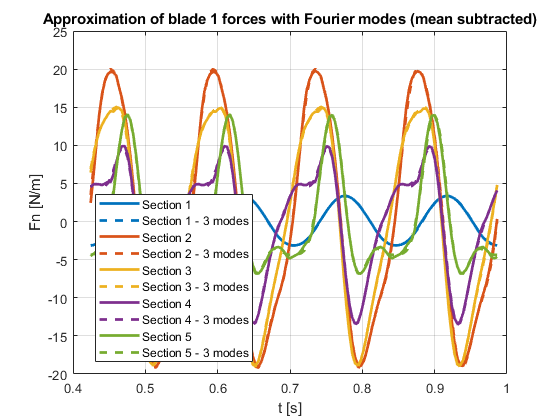
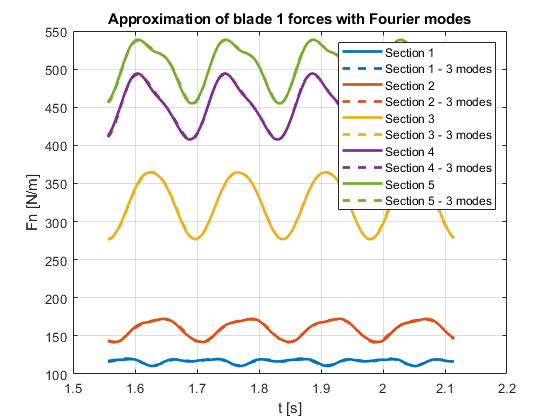
SA of NewMexico output wrt. yaw parameters
- output is a vector QoI with the Fourier coefficients
- added FFT to the NewMexico readoutput function to transform simulation data to Fourier domain

diff --git a/sensitivity_analysis/cases/NewMexico_sensitivity/NewMexico_readoutput.m b/sensitivity_analysis/cases/NewMexico_sensitivity/NewMexico_readoutput.m
@@ -48,7 +48,7 @@ switch P.FixedParameters.QoI
         
         % Locations of experimental data
         % These values are made available from NewMexico: 
-        r_exp = P.FixedParameters.r_exp; %2.25*[0.25 0.35 0.6 0.82 0.92]; % Measurement radial stations in percentage of blade length
+        r_exp = P.FixedParameters.r_exp;
         
         switch P.FixedParameters.QoI_type
 
@@ -62,13 +62,13 @@ switch P.FixedParameters.QoI
             case 'full'
                 
                 % number of revolutions to consider (counting backward)
-                n_rev = 4;
+                n_rev     = P.FixedParameters.n_rev;
                 % number of Fourier coefficients to keep (including mean)
-                % note: we get (n_keep-1)*2 + 1 coefficients
-                n_keep = 2;
+                % note: we get (n_fourier-1)*2 + 1 coefficients
+                n_fourier = P.FixedParameters.n_fourier;
                 % radial indices to consider:
-                r_index = 1:5;
-                
+                r_index   = P.FixedParameters.r_index;
+                                               
                 % Use full (azimuth dependent) solution
                 % select a couple of revolutions by looking at where azimuth is smaller
                 % than a threshold value; the threshold value is taken as the minimum of the difference
@@ -82,22 +82,26 @@ switch P.FixedParameters.QoI
                 % select force, azimuth and time based on this index
                 Fn_last_rev   = Fn(ind_last_rev,:);
                 azi_last_rev  = azi_sim(ind_last_rev);
+%               dazi = mean(diff(azi_last_rev)); % in degrees
+                % get the time step from the simulation data, it should
+                % be constant
                 t_last_rev    = t_sim(ind_last_rev);
-
-
+                dt   = mean(diff(t_last_rev)); % in seconds
+                % number of data points
+                n    = length(azi_last_rev); 
+                
+                % Interpolated Fn to the right r-positions using spline               
+                Fn_int   = spline(r_sim,Fn_last_rev,r_exp);               
+                
                 Y = [];
                 for k=1:length(r_index)
 
-                    n    = length(azi_last_rev); 
-%                     dazi = mean(diff(azi_last_rev)); % in degrees
-                    % get the time step from the simulation data, it should
-                    % be constant
-                    dt   = mean(diff(t_last_rev)); % in seconds
-                    Fn   = Fn_last_rev(:,r_index(k));
+
+                    Fn_k = Fn_int(:,r_index(k));
                     % do the fourier transform
-                    Fhat = fft(Fn,n);
+                    Fhat = fft(Fn_k,n)/n; % include scaling with 1/n to get physical results for coefficients
                     % get the power spectral density
-                    PSD  = Fhat.*conj(Fhat)/(n^2);
+                    PSD  = Fhat.*conj(Fhat);
 
                     % first half of frequencies contains all information, because the signal is
                     % real, so c_k = c_{-k}
@@ -117,15 +121,17 @@ switch P.FixedParameters.QoI
                     % note that the indices that are skipped correspond to
                     % the complex conjugate, so they don't need to be
                     % stored
-                    ind_select = 2:2:2*(n_keep-1);
+                    ind_select = 2:2:2*(n_fourier-1);
                     
                     % add mean separately
-                    Fhat_mean = Fhat(ind(1));
+                    Fhat_mean = abs(Fhat(ind(1)));
                     Fhat_new  = Fhat(ind(ind_select));
 
                     % save the complex coefficients in terms of amplitude
-                    % and phase angle
-                    Y = horzcat(Y,[Fhat_mean abs(Fhat_new)' angle(Fhat_new)']);
+                    % and phase angleei
+                    % since we only store the positive frequencies, we need
+                    % to multiply by 2 for the physical amplitudes
+                    Y = horzcat(Y,[Fhat_mean 2*abs(Fhat_new)' angle(Fhat_new)']);
                     
                 end
         

diff --git a/sensitivity_analysis/Other/testFourierSimulationData.m b/sensitivity_analysis/Other/testFourierSimulationData.m
@@ -2,7 +2,7 @@
 clearvars
 close all
 
-%% load some data
+%% load some simulation data
 root_folder = pwd;
 filename = fullfile('AEROmodule','NewMexico_calibrate','current','output','B1n_BEM.txt');
 
@@ -46,7 +46,7 @@ t_last_rev    = t_sim(ind_last_rev);
 
 % Interpolation: columns of Fn_last_rev are interpolated to
 % yield new columns at r_exp positions
-Y   = spline(r_sim,Fn_last_rev,r_exp);
+Fn_int   = spline(r_sim,Fn_last_rev,r_exp);
 
 
 %% loop over radial sections and do FFT for each section
@@ -68,21 +68,23 @@ for k = 1:length(r_index)
     n    = length(azi_last_rev);
     dazi = mean(diff(azi_last_rev)); % in degrees
     dt   = mean(diff(t_last_rev)); % in seconds
-    Fn   = Fn_last_rev(:,r_index(k));
+    Fn_k   = Fn_int(:,r_index(k));
     % subtract the mean of the data (possible, not required)
 %     Fn_mean = mean(Fn);
-    Fn_pert = Fn; % - Fn_mean;
+    Fn_pert = Fn_k; % - Fn_mean;
     % do the fourier transform
-    Fhat = fft(Fn_pert,n);
+    % include scaling to get physical interpretable coefficients
+    Fhat = fft(Fn_pert,n)/n;
     % get the power spectral density
-    PSD  = Fhat.*conj(Fhat)/(n^2);
+    PSD  = Fhat.*conj(Fhat);
 
     % first half of frequencies contains all information, because the signal is
     % real, so c_k = c_{-k}
     % we therefore plot the one-sided (positive) frequency range only
     freqVals = (1/dt)*(0:floor(n/2)-1)'/n;
     
-    norm(Fn)^2/n;
+    % power in time and in frequency domain (should match)
+    norm(Fn_k)^2/n;
     sum(PSD);
 
     % for plotting purposes, the fftshift can be useful:
@@ -103,7 +105,24 @@ for k = 1:length(r_index)
     % set other indices to 0
     Fhat_new = ind_select.*Fhat;
     % back to the time domain
-    Fnew     = ifft(Fhat_new,n);
+    Fnew     = n*ifft(Fhat_new,n);
+    
+    % note: if we want physical meaning out of the Fourier coefficients
+    % (amplitude, angle) we need to multiply by 2 if we don't
+    % include the complex conjugates
+    % below is with all coefficients:
+    ind_keep = ind(1:2*n_keep-1);
+    f_keep = Fhat(ind_keep);
+    abs(f_keep);
+    angle(f_keep);
+
+    % alternatively, with only positive frequencies:
+    ind_pos = ind(2:2:2*(n_keep-1));
+    f_pos  = Fhat(ind_pos);
+    abs(Fhat(ind(1)))
+    abs(f_pos)*2
+    angle(f_pos)    
+    
     
     figure(9)
     semilogy(freqVals(1:end),PSD(1:floor(n/2)),'x-','Color',colormap(k,:))
@@ -136,41 +155,7 @@ legend('Section 1','Section 1 - 3 modes',...
     'Section 5','Section 5 - 3 modes');
 xlabel('t [s]')
 ylabel('Fn [N/m]');
-title('Approximation of blade 1 forces with Fourier modes (mean subtracted)')
+title('Approximation of blade 1 forces with Fourier modes')
 
 
-%% simple example of  FFT and iFFT
-% n  = 50; % number of samples
-% t  = linspace(0,1,n)';
-% dt = t(2)-t(1);
-% freq = 1/dt; %sampling frequency should be at least 2*highest frequency in signal
-% f    = sin(2*pi*3*(t-0.4));% + sin(2*pi*120*t);
-% n    = length(t);
-% fhat = fft(f,n);
-% psd  = fhat.*conj(fhat)/(n^2);
-% 
-% % power in time and in frequency domain (should match)
-% norm(f)^2/n
-% sum(psd)
-% 
-% fVals = freq*(0:n/2-1)/n;
-% figure
-% semilogy(fVals,psd(1:n/2))
-% 
-% % select indices with largest PSD by sorting the PSD
-% [val,ind] = sort(psd,'desc');
-% %
-% ind_select = ones(n,1);
-% % select 2*n_keep indices, where the factor 2 is needed because we need the
-% % coefficients associated with negative frequencies as well to do the inverse
-% % transform
-% n_keep = 3;
-% ind_select(ind(2*n_keep+1:end)) = 0;
-% % set other indices to 0
-% fhat_new = ind_select.*fhat;
-% fnew    = ifft(fhat_new,n);
-% 
-% figure
-% plot(t,f);
-% hold on
-% plot(t,fnew);
+

diff --git a/sensitivity_analysis/Other/simpleFourier.m b/sensitivity_analysis/Other/simpleFourier.m
@@ -1,0 +1,63 @@
+%% simple example of  FFT and iFFT
+% https://www.gaussianwaves.com/2014/07/how-to-plot-fft-using-matlab-fft-of-basic-signals-sine-and-cosine-waves/
+% https://www.gaussianwaves.com/2015/11/interpreting-fft-results-obtaining-magnitude-and-phase-information/
+
+n  = 100; % number of samples
+t  = linspace(0,1,n)';
+dt = t(2)-t(1);
+freq = 1/dt; %sampling frequency should be at least 2*highest frequency in signal
+f    = 2 + 0.1*cos(2*pi*5*t + 10*pi/180);% + sin(2*pi*120*t);
+n    = length(t);
+fhat = fft(f,n)/n; % if scaling is included it needs to be added also in ifft
+psd  = fhat.*conj(fhat); %/(n^2); % n^2 disappears if it we do fft/n
+
+% power in time and in frequency domain (should match)
+norm(f)^2/n;
+sum(psd);
+
+fVals = freq*(0:n/2-1)/n;
+figure
+semilogy(fVals,psd(1:n/2))
+
+% select indices with largest PSD by sorting the PSD
+[val,ind] = sort(psd,'desc');
+%
+ind_select = ones(n,1);
+% select 2*n_keep indices, where the factor 2 is needed because we need the
+% coefficients associated with negative frequencies as well to do the inverse
+% transform
+n_keep = 3;
+ind_select(ind(2*n_keep:end)) = 0;
+% set other indices to 0
+fhat_new = ind_select.*fhat;
+fnew    = n*ifft(fhat_new,n);
+
+% note: if we want physical meaning out of the Fourier coefficients
+% (amplitude, angle) we need to divide by n (and multiply by 2 if we don't
+% include the complex conjugates)
+ind_keep = ind(1:2*n_keep-1);
+f_keep = fhat(ind_keep);
+abs(f_keep);
+
+% the phase angle is more tricky business
+% https://www.gaussianwaves.com/2015/11/interpreting-fft-results-obtaining-magnitude-and-phase-information/
+%angle(f_keep)
+% f2 = f_keep;
+% threshold = max(abs(f_keep))/10000; %tolerance threshold
+% f2(abs(f_keep)<threshold) = 0; %maskout values that are below the threshold
+% phase=atan2(imag(f2),real(f2))*180/pi; %phase information
+
+% get only positive frequencies and mean
+ind_pos = 2:2:2*(n_keep-1);
+abs(fhat(1))
+abs(fhat(ind_keep(ind_pos)))*2
+f2 = fhat;
+threshold = max(abs(f2))/1e4; %tolerance threshold
+f2(abs(f2)<threshold) = 0; %maskout values that are below the threshold
+angle(f2(ind_keep(ind_pos)))*180/pi
+
+
+figure
+plot(t,f);
+hold on
+plot(t,fnew);

diff --git a/sensitivity_analysis/cases/NewMexico_sensitivity/initialize.m b/sensitivity_analysis/cases/NewMexico_sensitivity/initialize.m
@@ -22,7 +22,21 @@ Model.mHandle = @aero_module;
 % Quantity of interest
 % QoI = 'Axial_Force_Blade';
 QoI = 'Sectional_normal_force';
+% 'mean' or 'full'; in case of 'full', specify:
+% * the radial indices (sections to consider in the analysis)
+% * the number of revolutions 
+% * number of Fourier coefficients that are required
 QoI_type = 'full';
+               
+% number of revolutions to consider (counting from end of time series)
+n_rev = 4;
+% number of Fourier coefficients to keep (including mean)
+% note: we get (n_fourier-1)*2 + 1 coefficients since there is both a real and
+% imaginary component (stored as amplitude and phase angle) for each
+% frequency
+n_fourier = 2;
+% radial indices (blade sections) to consider:
+r_index = 1:5;
 
 % Pass parameters to model via the cell array FixedInputs
 [FixedParameters,UncertainInputs] = getParameterAeroModule(turbineName);
@@ -35,6 +49,13 @@ FixedParameters.QoI_type       = QoI_type;
 
 FixedParameters.r_exp          = r_exp_data;
 
+switch QoI_type
+    case 'full'
+        % store parameters in struct
+        FixedParameters.n_rev          = n_rev;
+        FixedParameters.n_fourier      = n_fourier;
+        FixedParameters.r_index        = r_index;
+end
 
 P.FixedParameters = FixedParameters;
 P.UncertainInputs = UncertainInputs;
@@ -77,7 +98,7 @@ NsamplesOLS = 8;%[8 16 32 64 128]; % if not specified, the number of samples fro
 OLS_repeat = 1; % like MC_repeat
  
 % for PCE-LARS:
-NsamplesLARS = [40]; % if not specified, the number of samples from Quad is taken
+NsamplesLARS = [80]; % if not specified, the number of samples from Quad is taken
 
 LARS_repeat = 1; % like MC_repeat
 

diff --git a/sensitivity_analysis/cases/NewMexico_sensitivity/postProcessing.m b/sensitivity_analysis/cases/NewMexico_sensitivity/postProcessing.m
@@ -50,14 +50,26 @@ end
 % end
 
 %% bar chart of Sobol indices
-
 % corresponding to largest number of samples
+
+figure
+cmap = get(gca,'ColorOrder');
+
+hold on
+
+m_plot = 3; % number of coefficients used for QoI
+n_plot = 5; % number of columns = number of radial sections
+
+titles = {'section 1', 'section 2', 'section 3', 'section 4', 'section 5'};
+QoI_names   = {'mean','amplitude 1','angle 1'};
 
 for q=1:nout
     
-    figure
-    cmap = get(gca,'ColorOrder');
-
+    [i_plot,j_plot] = ind2sub([m_plot n_plot],q);
+    % note that subplot index does not correspond to ind2sub indexing
+    % therefore, get q_plot by reversing the indexing:
+    q_plot = sub2ind([n_plot m_plot],j_plot,i_plot);
+    subplot(m_plot,n_plot,q_plot);
     hold on
     
     n_methods = length(methods);
@@ -98,14 +110,20 @@ for q=1:nout
         k = k+1;
     end
     
-    legend(methods, 'Interpreter', 'none')
-    ylabel('Total order Sobol index');
+%     legend(methods, 'Interpreter', 'none')
+%     ylabel('Total order Sobol index');
     ylim([0 1])
     xticks(1:ndim)
     for i =1:ndim
         label_names{i} = Input.Marginals(i).Name;
     end
     xticklabels(label_names)
-    title(strcat('Sobol indices for output ',num2str(q)))
+    if (j_plot==1) % first column
+        ylabel(QoI_names{i_plot});
+    end
+    if (i_plot==1) % first row
+        title(titles{j_plot});
+    end
+%     title(strcat('Sobol indices for output ',num2str(q)))
 
 end

diff --git a/sensitivity_analysis/cases/NewMexico_sensitivity/NewMexico.m b/sensitivity_analysis/cases/NewMexico_sensitivity/NewMexico.m
@@ -105,8 +105,6 @@ Input.Marginals(counter).Type = 'Gaussian';
 Input.Marginals(counter).Parameters = [AM25, AM25_Std*abs(AM25)];
 % Input.Marginals(counter).Bounds = [AM14_LB AM14_UB]; 
 
-
-
 counter = counter+1;
 PH11     = -51.2;
 PH11_Std = 30;  % Standard deviation

diff --git a/sensitivity_analysis/testSensitivity.m b/sensitivity_analysis/testSensitivity.m
@@ -328,6 +328,7 @@ if (find(strcmp(methods,'PCE_LARS')))
     
 end
 
+
 %% Post-processing
 pp_file = ['cases/' input_file '/postProcessing.m'];
 if (exist(pp_file,'file')==2)
